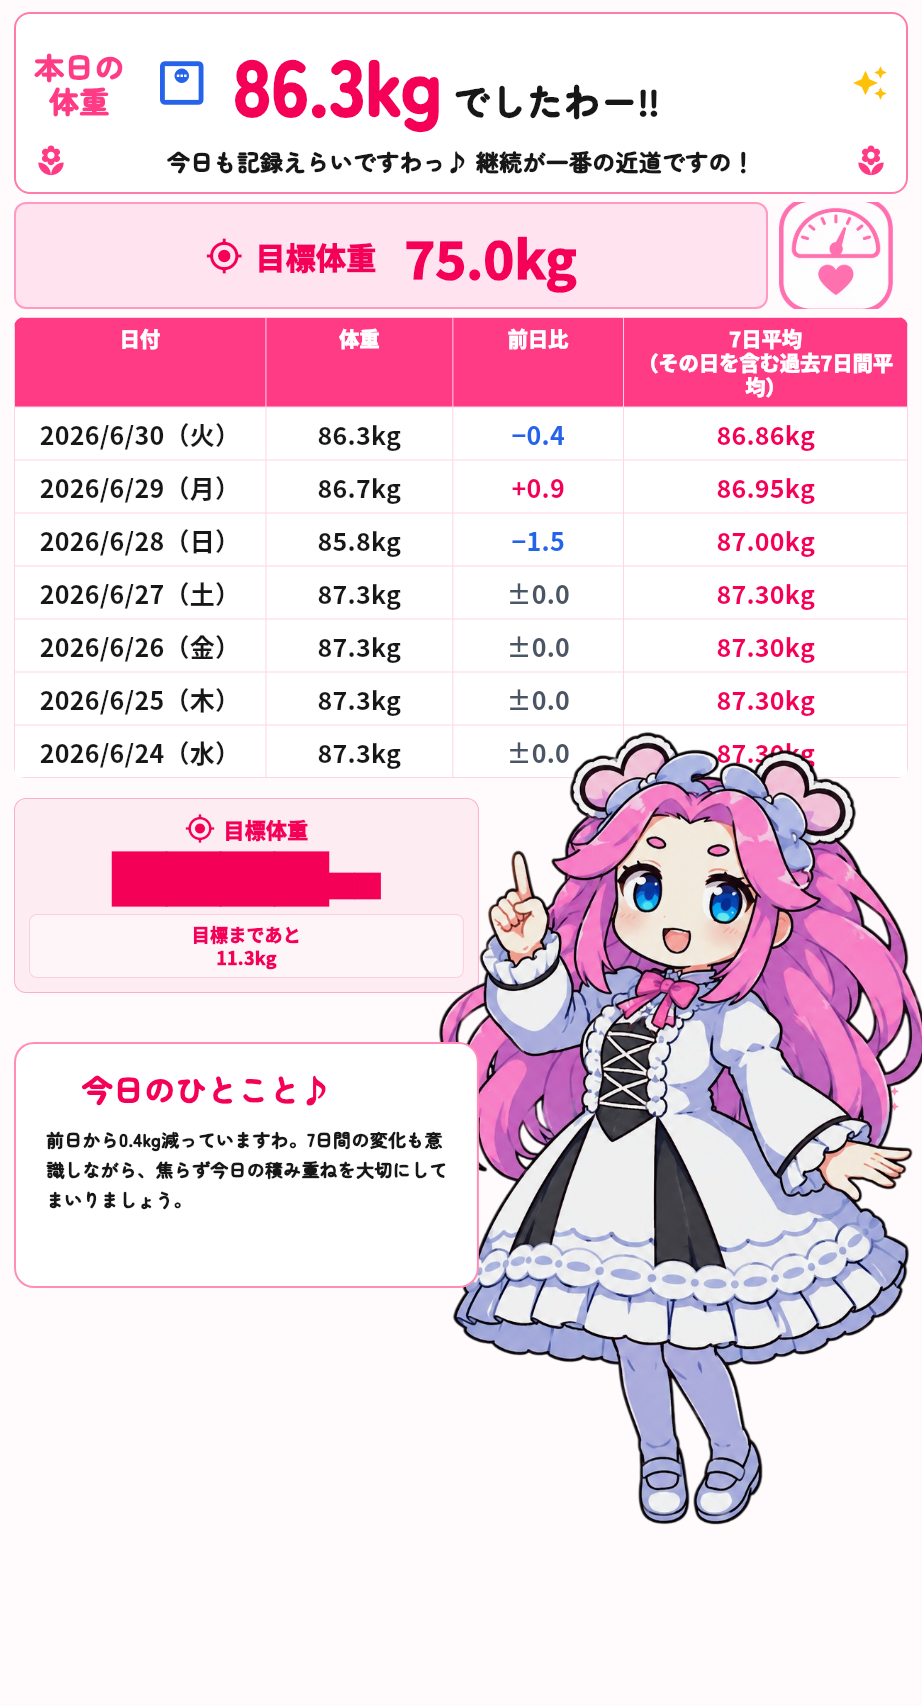
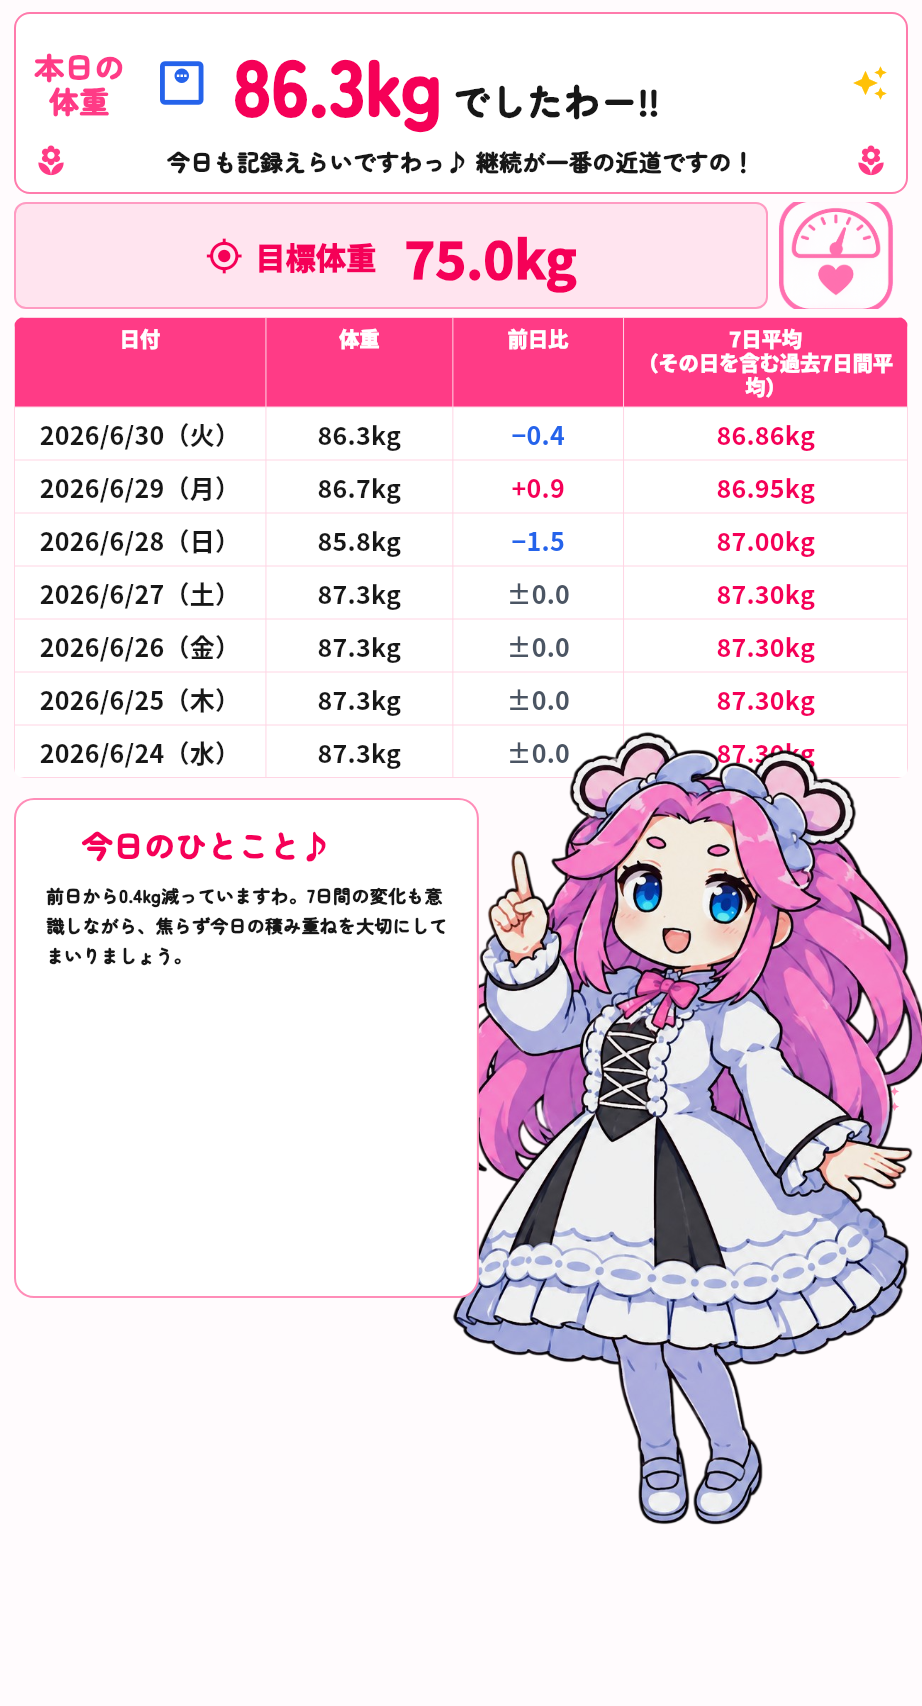
Expand the report comment area

diff --git a/lib/screens/report_screen.dart b/lib/screens/report_screen.dart
@@ -47,10 +47,6 @@ class _ReportBody extends StatelessWidget {
   @override
   Widget build(BuildContext context) {
     final latest = entries.isNotEmpty ? entries.first : null;
-    final latestWeight = latest?.weightKg;
-    final remaining = latestWeight == null
-        ? null
-        : (latestWeight - targetWeightKg).clamp(0, double.infinity).toDouble();
     final rows = _recentRows(entries);
 
     return LayoutBuilder(
@@ -84,7 +80,6 @@ class _ReportBody extends StatelessWidget {
                             _SevenDayTable(rows: rows, scale: scale),
                             const SizedBox(height: 20),
                             _LayeredReportBottomSection(
-                              remaining: remaining,
                               aiComment:
                                   latest?.aiComment ??
                                   generatedComment ??
@@ -387,137 +382,12 @@ class _WeightInputShortcutButton extends StatelessWidget {
   }
 }
 
-class _SummaryCards extends StatelessWidget {
-  const _SummaryCards({required this.remaining, required this.scale});
-
-  final double? remaining;
-  final double scale;
-
-  @override
-  Widget build(BuildContext context) {
-    final cards = [
-      _SummaryCard(
-        icon: Icons.gps_fixed,
-        title: '目標体重',
-        value: '75.0',
-        unit: 'kg',
-        footer: '目標まであと\n${_formatNumber(remaining)}kg',
-        color: _deepPink,
-        scale: scale,
-      ),
-    ];
-
-    return LayoutBuilder(
-      builder: (context, constraints) {
-        if (constraints.maxWidth < 560) {
-          return Column(children: [cards[0]]);
-        }
-        return Row(
-          children: [
-            Expanded(child: cards[0]),
-            const Spacer(),
-          ],
-        );
-      },
-    );
-  }
-}
-
-class _SummaryCard extends StatelessWidget {
-  const _SummaryCard({
-    required this.icon,
-    required this.title,
-    required this.value,
-    required this.unit,
-    required this.footer,
-    required this.color,
-    required this.scale,
-  });
-
-  final IconData icon;
-  final String title;
-  final String value;
-  final String unit;
-  final String footer;
-  final Color color;
-  final double scale;
-
-  @override
-  Widget build(BuildContext context) {
-    return Container(
-      padding: EdgeInsets.all(14 * scale),
-      decoration: BoxDecoration(
-        color: color.withValues(alpha: 0.06),
-        borderRadius: BorderRadius.circular(12 * scale),
-        border: Border.all(color: color.withValues(alpha: 0.26)),
-      ),
-      child: Column(
-        children: [
-          Row(
-            mainAxisAlignment: MainAxisAlignment.center,
-            children: [
-              Icon(icon, color: color, size: 31 * scale),
-              SizedBox(width: 8 * scale),
-              Text(
-                title,
-                style: TextStyle(
-                  color: color,
-                  fontSize: 21 * scale,
-                  fontWeight: FontWeight.w900,
-                ),
-              ),
-            ],
-          ),
-          SizedBox(height: 8 * scale),
-          RichText(
-            text: TextSpan(
-              style: TextStyle(color: color, fontWeight: FontWeight.w900),
-              children: [
-                TextSpan(
-                  text: value,
-                  style: TextStyle(fontSize: 54 * scale),
-                ),
-                TextSpan(
-                  text: unit,
-                  style: TextStyle(fontSize: 26 * scale),
-                ),
-              ],
-            ),
-          ),
-          SizedBox(height: 8 * scale),
-          Container(
-            width: double.infinity,
-            padding: EdgeInsets.symmetric(vertical: 8 * scale),
-            decoration: BoxDecoration(
-              color: Colors.white.withValues(alpha: 0.45),
-              borderRadius: BorderRadius.circular(8 * scale),
-              border: Border.all(color: color.withValues(alpha: 0.16)),
-            ),
-            child: Text(
-              footer,
-              textAlign: TextAlign.center,
-              style: TextStyle(
-                color: color,
-                fontSize: 18 * scale,
-                fontWeight: FontWeight.w900,
-                height: 1.25,
-              ),
-            ),
-          ),
-        ],
-      ),
-    );
-  }
-}
-
 class _LayeredReportBottomSection extends StatelessWidget {
   const _LayeredReportBottomSection({
-    required this.remaining,
     required this.aiComment,
     required this.scale,
   });
 
-  final double? remaining;
   final String aiComment;
   final double scale;
 
@@ -526,19 +396,11 @@ class _LayeredReportBottomSection extends StatelessWidget {
     return LayoutBuilder(
       builder: (context, constraints) {
         final messageWidth = constraints.maxWidth * 0.52;
-        final cardWidth = constraints.maxWidth * 0.52;
-
         return SizedBox(
           height: 760 * scale,
           child: Stack(
             clipBehavior: Clip.none,
             children: [
-              Positioned(
-                left: 0,
-                top: 0,
-                width: cardWidth,
-                child: _SummaryCards(remaining: remaining, scale: scale),
-              ),
               Positioned(
                 right: 0,
                 bottom: 0,
@@ -548,8 +410,9 @@ class _LayeredReportBottomSection extends StatelessWidget {
               ),
               Positioned(
                 left: 0,
-                top: 244 * scale,
+                top: 0,
                 width: messageWidth,
+                height: 500 * scale,
                 child: _ViewerMessagePanel(aiComment: aiComment, scale: scale),
               ),
             ],
@@ -699,8 +562,6 @@ class _ReportRowData {
   ];
 }
 
-String _formatNumber(double? value) =>
-    value == null ? '--' : value.toStringAsFixed(1);
 String _formatSigned(double? value) => value == null
     ? '±0.0'
     : '${value > 0

diff --git a/test/home_screen_golden_test.dart b/test/home_screen_golden_test.dart
@@ -396,7 +396,7 @@ void main() {
     expect(find.byType(ReportScreen), findsOneWidget);
     expect(find.textContaining('測定日：'), findsNothing);
     expect(find.text('日付'), findsOneWidget);
-    expect(find.text('目標体重'), findsNWidgets(2));
+    expect(find.text('目標体重'), findsOneWidget);
     expect(find.textContaining('JST'), findsNothing);
   });
 
@@ -450,13 +450,13 @@ void main() {
     expect(find.bySemanticsLabel('体重入力画面を開く'), findsOneWidget);
     expect(find.bySemanticsLabel('体重入力アイコン'), findsOneWidget);
     expect(find.text('日付'), findsOneWidget);
-    expect(find.text('目標体重'), findsNWidgets(2));
+    expect(find.text('目標体重'), findsOneWidget);
     expect(find.text('75.0kg'), findsOneWidget);
     expect(find.textContaining('JST'), findsNothing);
     expect(find.text('🌸 今日のひとこと♪'), findsOneWidget);
     expect(find.textContaining('前日から0.4kg減っていますわ'), findsOneWidget);
     expect(find.textContaining('毎日の積み重ねが'), findsNothing);
-    expect(find.textContaining('目標まであと'), findsOneWidget);
+    expect(find.textContaining('目標まであと'), findsNothing);
     expect(find.textContaining('※7日平均は'), findsNothing);
     expect(find.byType(SingleChildScrollView), findsNothing);
     await expectLater(
